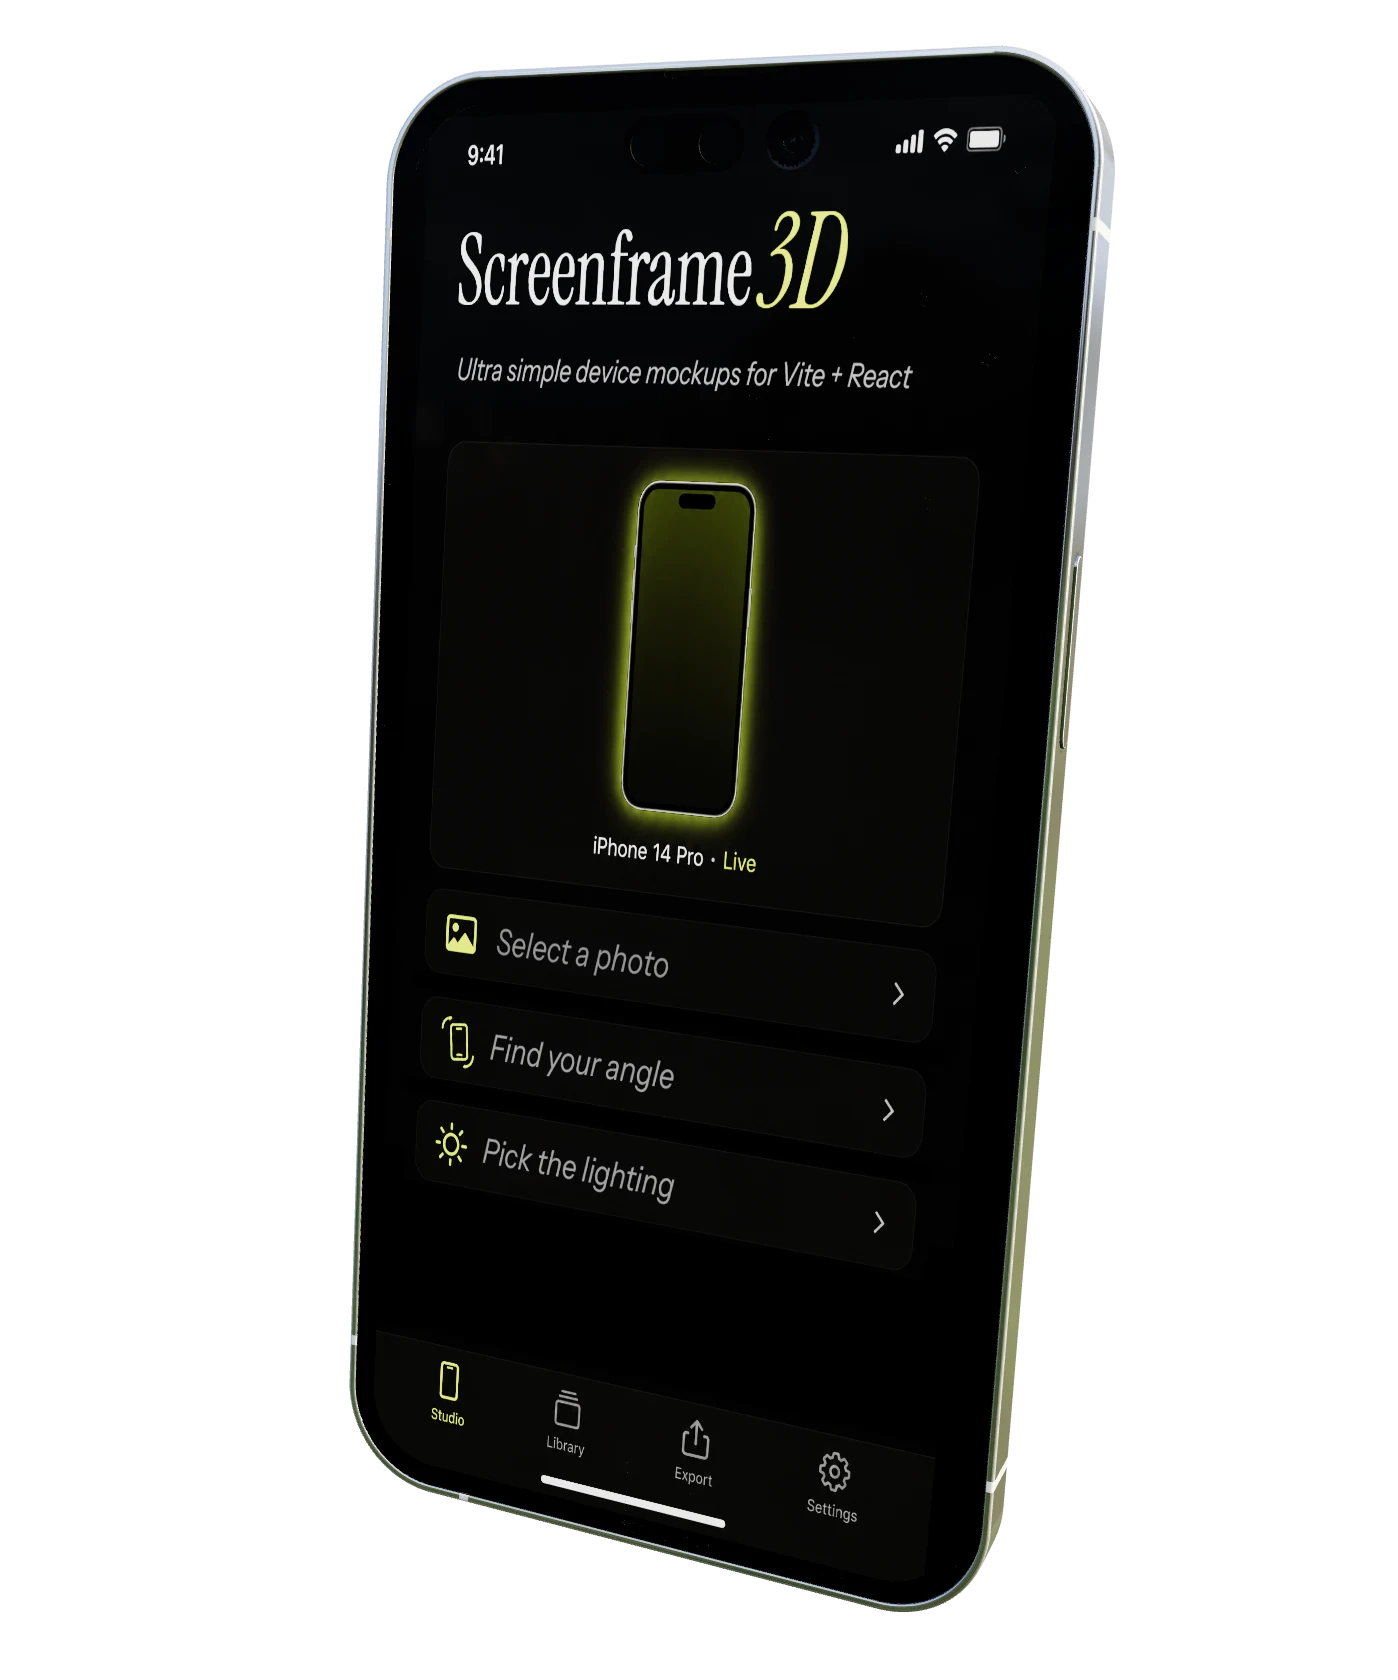
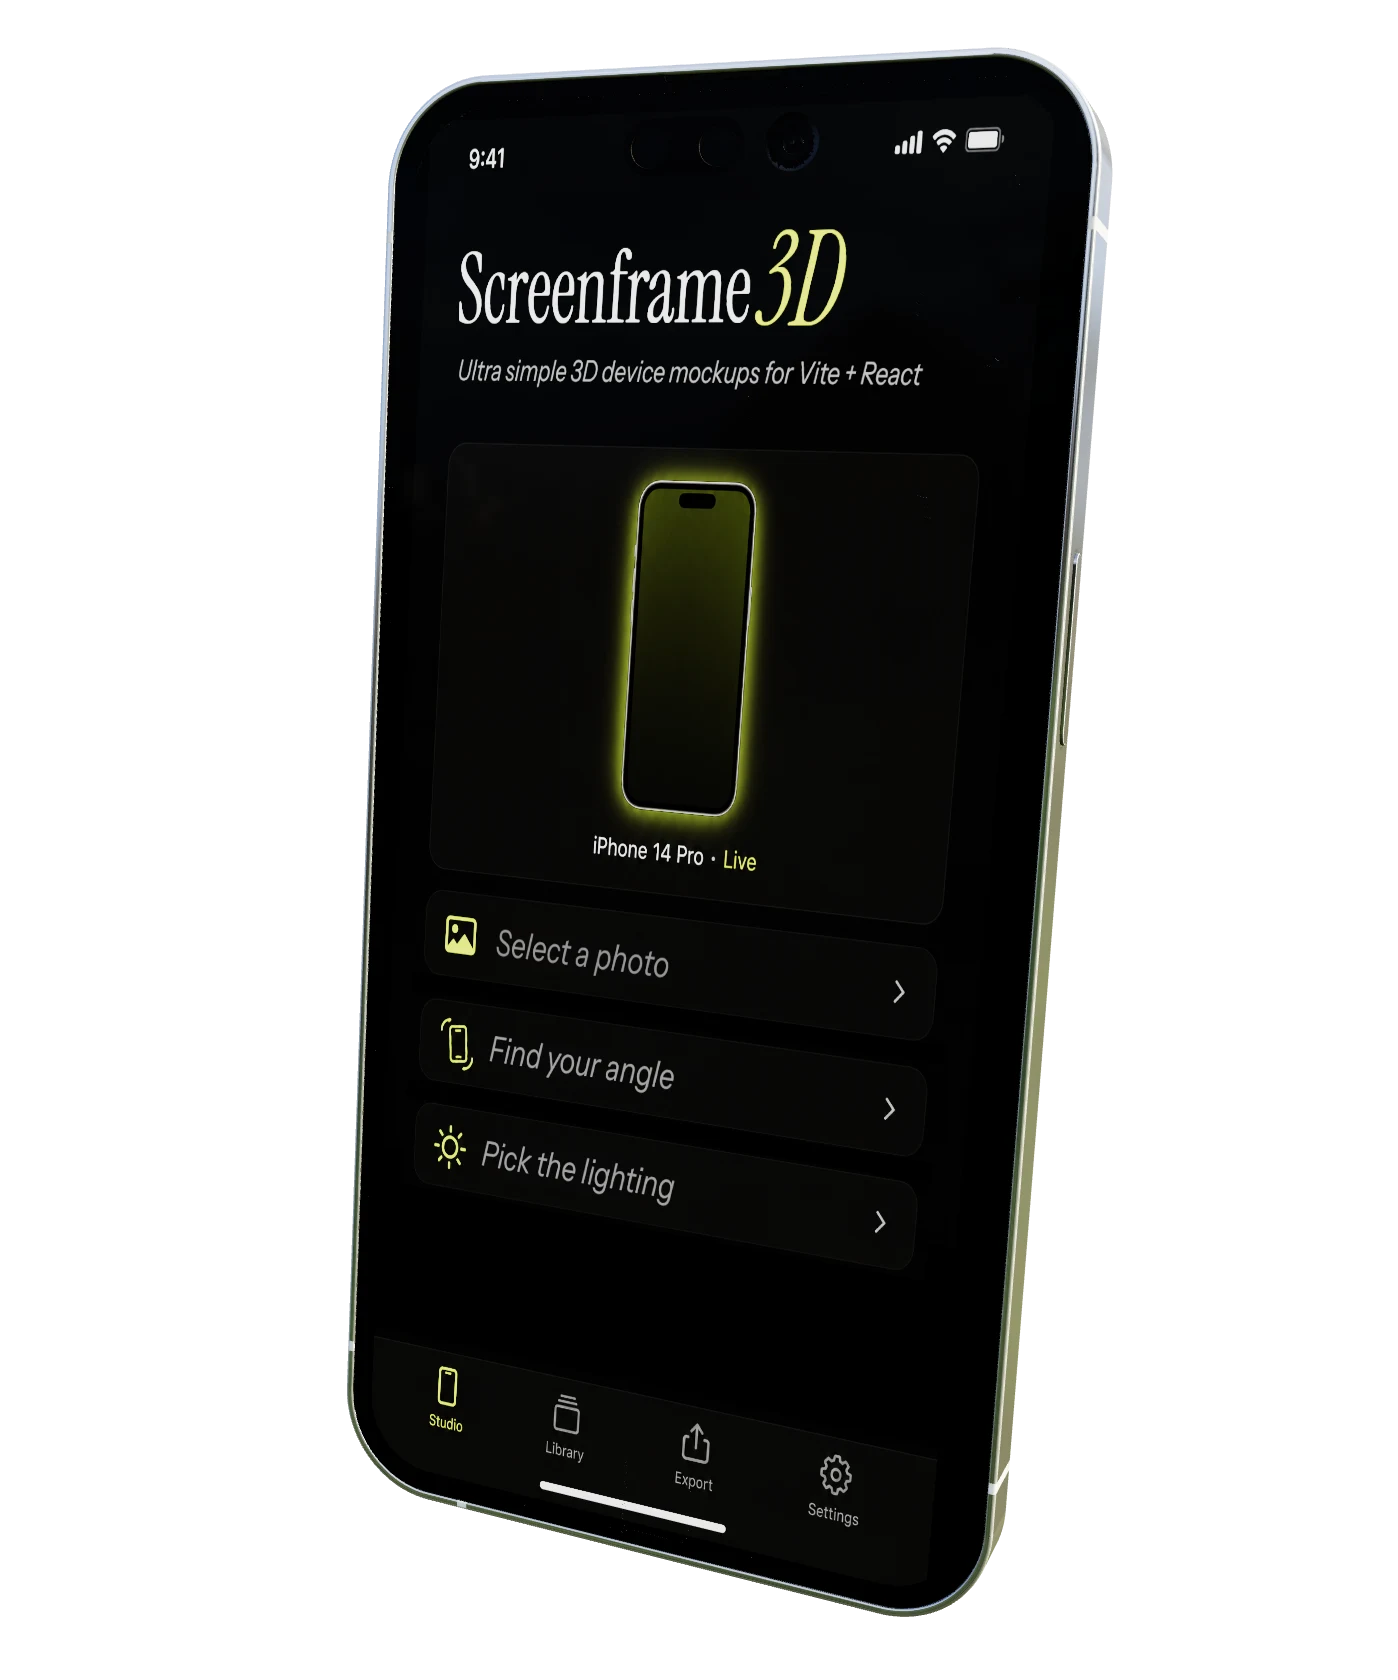
Deploy latest landing copy and demo assets

diff --git a/index.html b/index.html
@@ -421,13 +421,12 @@
     <section class="section" id="how">
       <div class="split">
         <div>
-          <h2>The “app” is the library.</h2>
+          <h2>The <I>only</I> free-to-use 3D device mockup library.</h2>
           <p class="section-kicker">
-            This page is dressed like a startup because that’s the job: make a product feel inevitable.
-            Underneath, it’s a few lines of Screenframe3D.
+            Everything on this page is powered by HTML and a few lines of Screenframe3D.
           </p>
-          <p class="note">
-            <code>/posters/boot.js</code> preloads every captured still, then the page picks the one whose name matches this screenshot and device.
+          <p class="section-kicker">
+            S3D's 3D is powered by <a href="https://threejs.org">Three.js</a> and device models from <a href="https://sketchfab.com/search?features=downloadable&q=iphone&type=models">Sketchfab</a>.
           </p>
         </div>
         <pre><span class="kw">import</span> { <span class="fn">DeviceShowcase</span> } from <span class="str">'screenframe3d/react'</span>
@@ -445,8 +444,8 @@
     </section>
 
     <footer>
-      <div>Screenframe3D · a device mockup library pretending, briefly, to be a company.</div>
-      <div><a href="./playground.html">Playground with knobs</a></div>
+      <div>Screenframe3D · by Nick Vander Woude | <a href="https://github.com/nvande">Github</a></div>
+      <div><a href="./playground.html">Playground with customization</a></div>
     </footer>
   </div>
 
